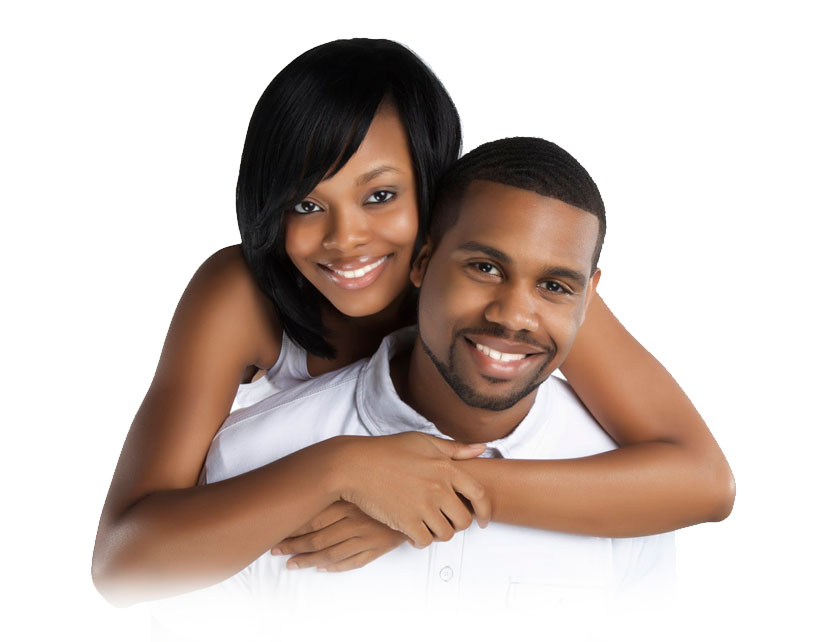
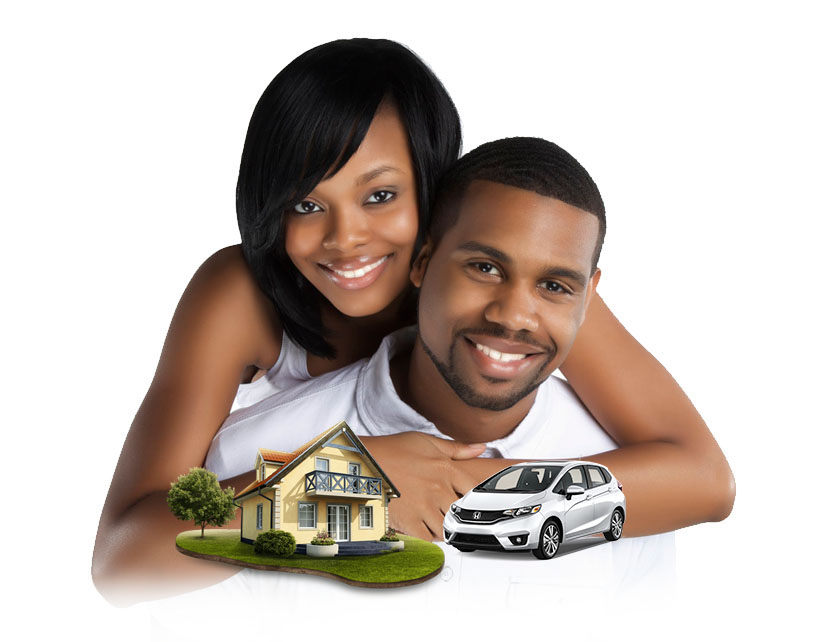
thought

Changed region(s): [[0.1845, 0.6542, 0.7688, 0.9346]]

diff --git a/js/scripts.js b/js/scripts.js
@@ -375,10 +375,10 @@
 })(jQuery);
 
 function startSlideshow(){
-    $(".main.one").fadeIn(1000).delay(10500).fadeOut(1500); //13000
-    $(".main.two").delay(13000).fadeIn(1500).delay(11000).fadeOut(1500); //27000
-    $(".main.three").delay(27000).fadeIn(1500).delay(11000).fadeOut(1500); //41000
-    $(".main.four").delay(41000).fadeIn(1500).delay(11000).fadeOut(1500, startSlideshow); //55000
+    $(".main.one").fadeIn(1000).delay(3500).fadeOut(1500); //13000
+    $(".main.two").delay(6500).fadeIn(1500).delay(3500).fadeOut(1500); //27000
+    $(".main.three").delay(13000).fadeIn(1500).delay(3500).fadeOut(1500); //41000
+    $(".main.four").delay(20000).fadeIn(1500).delay(3500).fadeOut(1500, startSlideshow); //55000
   }
 
   $(document).ready(function(){

diff --git a/index.html b/index.html
@@ -133,6 +133,7 @@
     <!-- Testimonials -->
     <div id="why" class="anchor"></div>
     <div class="slider-1" style="animation-duration: 1.5s;" >
+        <img src="/images/thought.png" alt="thought" class="thought">
         <div class="container">
             <div class="row">
                 <div class="wow fadeInUp delay-2  col-lg-12" style="animation-duration: 1.5s;">

diff --git a/css/styles.css b/css/styles.css
@@ -811,7 +811,16 @@ input[type='checkbox'] {
 	padding-top: 10rem;
 	padding-bottom: 10rem;
 	background: #272E6C;
+	position: relative;
 
+}
+
+.thought{
+	width: 400px;
+	height: auto;
+	position: absolute;
+	left: 0;
+	bottom: 0;
 }
 
 .slider-1 h2{
